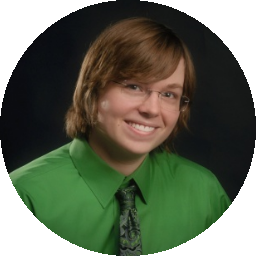
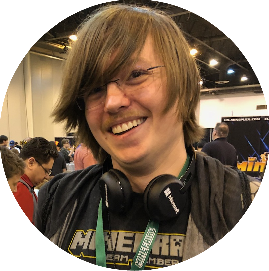
Updated some links and photo!

diff --git a/Games/Dawn/Dawn.html b/Games/Dawn/Dawn.html
@@ -117,7 +117,7 @@
                             <strong>December 2016</strong>
                         </li>
                         <li>Team Size:
-                          <strong>19</strong>
+                          <strong>18</strong>
                         </li>
                         <li>Languages and Technologies Used:
                             <strong>Unreal Engine 4, C++, Windows CLI, Innosetup, Perforce, Git, Slack</strong>
@@ -126,8 +126,8 @@
                           <span>&nbsp;&nbsp;&nbsp;&nbsp;&nbsp;&nbsp;&nbsp;&nbsp;</span>
                         </li>
                         <li>
-                          <form action="https://1drv.ms/u/s!AsKBBYQs5g_Nm7ckHNE7wP8nLW70pw" target=newtab>
-                            <button type="submit" class="btn btn-success big-button" ><i class="fa fa-download"></i> Download</button>
+                          <form action="https://store.steampowered.com/app/605610/Dawn/" target=newtab>
+                            <button type="submit" class="btn btn-success big-button" ><i class="fa fa-steam-square"></i> Steam Page</button>
                           </form>
                         </li>
                       </ul>

diff --git a/Games/AllStar/AllStar.html b/Games/AllStar/AllStar.html
@@ -99,7 +99,7 @@
                 <div class="col-lg-4">
                     <p>
                       AllStar is a multiplayer couch-competitive preparathon game where players build up spaceships to compete in a gauntlet of minigames.
-                      The game was built from the ground up using my own homemade engine, written in C++ and using OpenGL for rendering.
+                      The game was created for my Master's Thesis, built from the ground up using my own homemade engine, written in C++ and using OpenGL for rendering.
                     </br>
                       The game has two phases, the Assembly phase and the Challenge phase. Players start in Assembly mode, where they are dropped into an open arena.
                      </p>

diff --git a/Games/Greebles/Greebles.html b/Games/Greebles/Greebles.html
@@ -130,7 +130,7 @@
                           <span>&nbsp;&nbsp;&nbsp;&nbsp;&nbsp;&nbsp;&nbsp;&nbsp;</span>
                         </li>
                         <li>
-                          <form action="https://itunes.apple.com/us/app/greebles/id964706036?ls=1&amp;mt=8" target=newtab>
+                          <form action="https://itunes.apple.com/us/app/greebles/id964706036" target=newtab>
                             <button type="submit" class="btn btn-success big-button" ><i class="fa fa-apple"></i> App Store</button>
                           </form>
                         </li>
